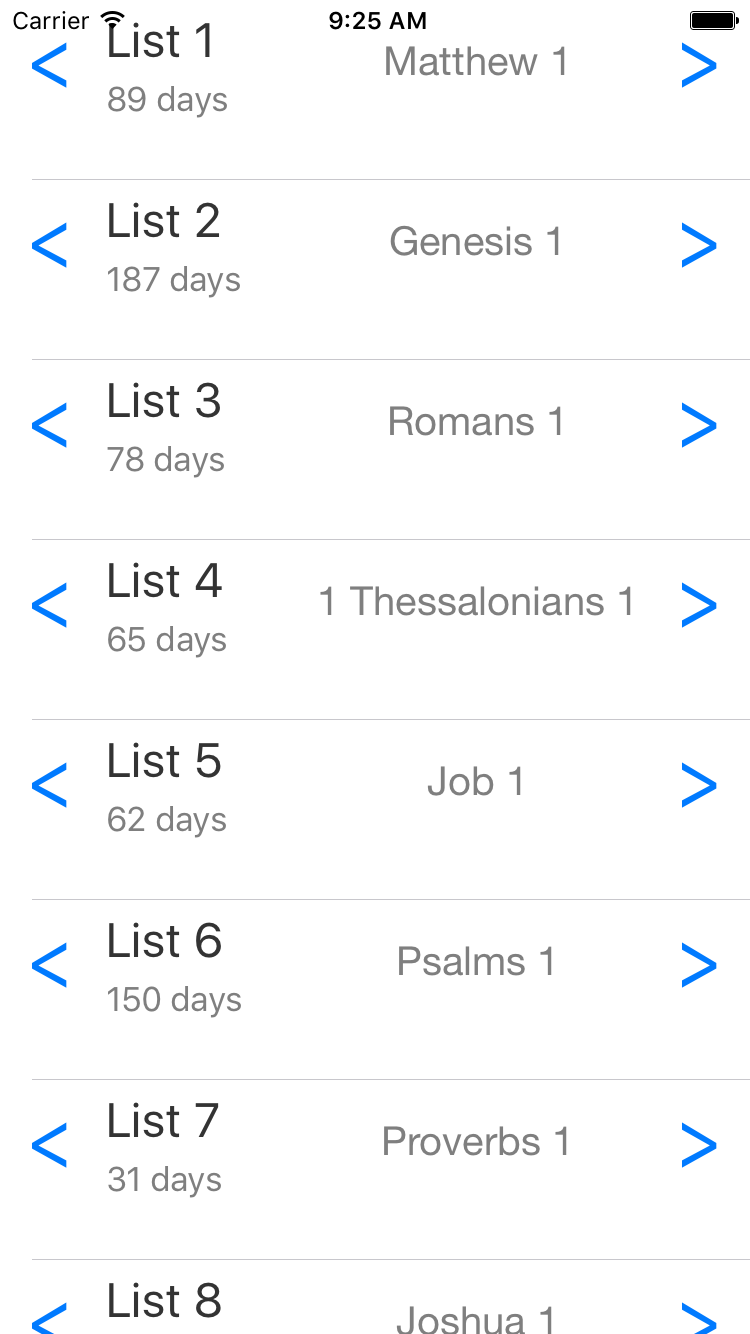
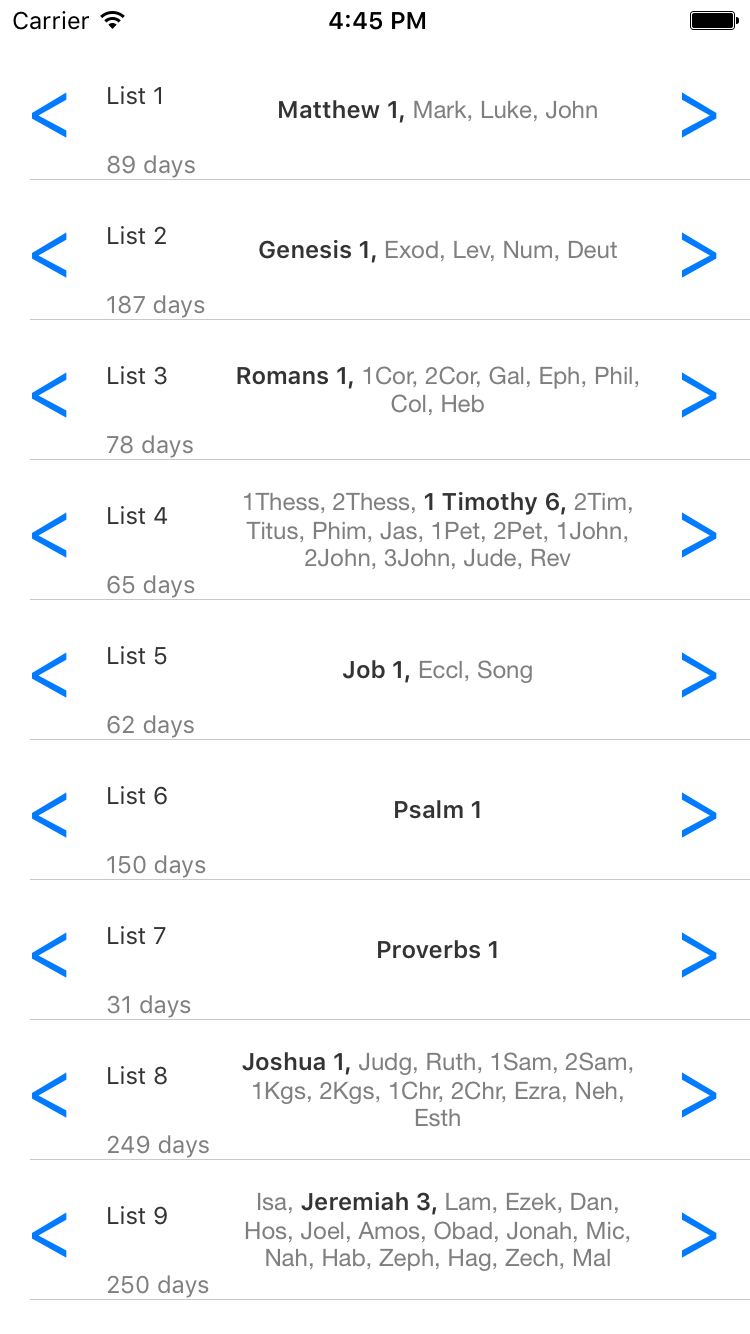
Update the UI to show all books in each list with the current book and chapter in bold.

diff --git a/src/BigRibbon/Book.swift b/src/BigRibbon/Book.swift
@@ -25,12 +25,12 @@ class Book : CustomStringConvertible {
     static let josh = Book(id:6, osisId:"Josh", name:"Joshua", chapters:24)
     static let judg = Book(id:7, osisId:"Judg", name:"Judges", chapters:21)
     static let ruth = Book(id:8, osisId:"Ruth", name:"Ruth", chapters:4)
-    static let sam1 = Book(id:9, osisId:"1Sam", name:"1 Samuel", chapters:31)
-    static let sam2 = Book(id:10, osisId:"2Sam", name:"2 Samuel", chapters:24)
-    static let kgs1 = Book(id:11, osisId:"1Kgs", name:"1 Kings", chapters:22)
-    static let kgs2 = Book(id:12, osisId:"2Kgs", name:"2 Kings", chapters:25)
-    static let chr1 = Book(id:13, osisId:"1Chr", name:"1 Chronicles", chapters:29)
-    static let chr2 = Book(id:14, osisId:"2Chr", name:"2 Chronicles", chapters:36)
+    static let sam1 = Book(id:9, osisId:"1Sam", name:"1\u{00a0}Samuel", chapters:31)
+    static let sam2 = Book(id:10, osisId:"2Sam", name:"2\u{00a0}Samuel", chapters:24)
+    static let kgs1 = Book(id:11, osisId:"1Kgs", name:"1\u{00a0}Kings", chapters:22)
+    static let kgs2 = Book(id:12, osisId:"2Kgs", name:"2\u{00a0}Kings", chapters:25)
+    static let chr1 = Book(id:13, osisId:"1Chr", name:"1\u{00a0}Chronicles", chapters:29)
+    static let chr2 = Book(id:14, osisId:"2Chr", name:"2\u{00a0}Chronicles", chapters:36)
     static let ezra = Book(id:15, osisId:"Ezra", name:"Ezra", chapters:10)
     static let neh = Book(id:16, osisId:"Neh", name:"Nehemiah", chapters:13)
     static let esth = Book(id:17, osisId:"Esth", name:"Esther", chapters:10)
@@ -38,7 +38,7 @@ class Book : CustomStringConvertible {
     static let ps = Book(id:19, osisId:"Ps", name:"Psalm", chapters:150)
     static let prov = Book(id:20, osisId:"Prov", name:"Proverbs", chapters:31)
     static let eccl = Book(id:21, osisId:"Eccl", name:"Ecclesiastes", chapters:12)
-    static let song = Book(id:22, osisId:"Song", name:"Song of Solomon", chapters:8)
+    static let song = Book(id:22, osisId:"Song", name:"Song\u{00a0}of\u{00a0}Solomon", chapters:8)
     static let isa = Book(id:23, osisId:"Isa", name:"Isaiah", chapters:66)
     static let jer = Book(id:24, osisId:"Jer", name:"Jeremiah", chapters:52)
     static let lam = Book(id:25, osisId:"Lam", name:"Lamentations", chapters:5)
@@ -62,25 +62,25 @@ class Book : CustomStringConvertible {
     static let john = Book(id:43, osisId:"John", name:"John", chapters:21)
     static let acts = Book(id:44, osisId:"Acts", name:"Acts", chapters:28)
     static let rom = Book(id:45, osisId:"Rom", name:"Romans", chapters:16)
-    static let cor1 = Book(id:46, osisId:"1Cor", name:"1 Corinthians", chapters:16)
-    static let cor2 = Book(id:47, osisId:"2Cor", name:"2 Corinthians", chapters:13)
+    static let cor1 = Book(id:46, osisId:"1Cor", name:"1\u{00a0}Corinthians", chapters:16)
+    static let cor2 = Book(id:47, osisId:"2Cor", name:"2\u{00a0}Corinthians", chapters:13)
     static let gal = Book(id:48, osisId:"Gal", name:"Galatians", chapters:6)
     static let eph = Book(id:49, osisId:"Eph", name:"Ephesians", chapters:6)
     static let phil = Book(id:50, osisId:"Phil", name:"Philippians", chapters:4)
     static let col = Book(id:51, osisId:"Col", name:"Colossians", chapters:4)
-    static let thess1 = Book(id:52, osisId:"1Thess", name:"1 Thessalonians", chapters:5)
-    static let thess2 = Book(id:53, osisId:"2Thess", name:"2 Thessalonians", chapters:3)
-    static let tim1 = Book(id:54, osisId:"1Tim", name:"1 Timothy", chapters:6)
-    static let tim2 = Book(id:55, osisId:"2Tim", name:"2 Timothy", chapters:4)
+    static let thess1 = Book(id:52, osisId:"1Thess", name:"1\u{00a0}Thessalonians", chapters:5)
+    static let thess2 = Book(id:53, osisId:"2Thess", name:"2\u{00a0}Thessalonians", chapters:3)
+    static let tim1 = Book(id:54, osisId:"1Tim", name:"1\u{00a0}Timothy", chapters:6)
+    static let tim2 = Book(id:55, osisId:"2Tim", name:"2\u{00a0}Timothy", chapters:4)
     static let titus = Book(id:56, osisId:"Titus", name:"Titus", chapters:3)
     static let phim = Book(id:57, osisId:"Phim", name:"Philemon", chapters:1)
     static let heb = Book(id:58, osisId:"Heb", name:"Hebrews", chapters:13)
     static let jas = Book(id:59, osisId:"Jas", name:"James", chapters:5)
-    static let pet1 = Book(id:60, osisId:"1Pet", name:"1 Peter", chapters:5)
-    static let pet2 = Book(id:61, osisId:"2Pet", name:"2 Peter", chapters:3)
-    static let john1 = Book(id:62, osisId:"1John", name:"1 John", chapters:5)
-    static let john2 = Book(id:63, osisId:"2John", name:"2 John", chapters:1)
-    static let john3 = Book(id:64, osisId:"3John", name:"3 John", chapters:1)
+    static let pet1 = Book(id:60, osisId:"1Pet", name:"1\u{00a0}Peter", chapters:5)
+    static let pet2 = Book(id:61, osisId:"2Pet", name:"2\u{00a0}Peter", chapters:3)
+    static let john1 = Book(id:62, osisId:"1John", name:"1\u{00a0}John", chapters:5)
+    static let john2 = Book(id:63, osisId:"2John", name:"2\u{00a0}John", chapters:1)
+    static let john3 = Book(id:64, osisId:"3John", name:"3\u{00a0}John", chapters:1)
     static let jude = Book(id:65, osisId:"Jude", name:"Jude", chapters:1)
     static let rev = Book(id:66, osisId:"Rev", name:"Revelation", chapters:22)
     

diff --git a/src/BigRibbon/BookmarkViewController.swift b/src/BigRibbon/BookmarkViewController.swift
@@ -63,9 +63,7 @@ class BookmarkViewController: UIViewController, UITableViewDataSource, UITableVi
         // Fetches the appropriate bookmark for the data source layout.
         let bookmark = bookmarks[(indexPath as NSIndexPath).row]
         
-        cell.nameLabel.text = "List " + bookmark.list.id.description
-        cell.daysLabel.text = bookmark.list.chapters.description + " days"
-        renderBookmarkPosition(cell, bookmark: bookmark)
+        renderBookmark(cell, bookmark: bookmark)
         
         cell.prevAction = { (cell) in
             let idx = (tableView.indexPath(for: cell)! as NSIndexPath).row
@@ -88,7 +86,7 @@ class BookmarkViewController: UIViewController, UITableViewDataSource, UITableVi
         
         self.saveBookmarks()
         
-        self.renderBookmarkPosition(cell, bookmark: bookmark)
+        self.renderBookmark(cell, bookmark: bookmark)
     }
     
     func decrementBookmark(_ cell: BookmarkTableViewCell, bookmark: Bookmark) {
@@ -97,12 +95,34 @@ class BookmarkViewController: UIViewController, UITableViewDataSource, UITableVi
         
         self.saveBookmarks()
         
-        self.renderBookmarkPosition(cell, bookmark: bookmark)
+        self.renderBookmark(cell, bookmark: bookmark)
     }
     
-    func renderBookmarkPosition(_ cell: BookmarkTableViewCell, bookmark: Bookmark) {
-        // TODO: Build a better string with formatting.
-        cell.booksLabel.attributedText = NSAttributedString(string: bookmark.book.name + " " + bookmark.chapter.description)
+    func renderBookmark(_ cell: BookmarkTableViewCell, bookmark: Bookmark) {
+        
+        cell.nameLabel.text = "List\u{00a0}" + bookmark.list.id.description
+        cell.daysLabel.text = bookmark.list.chapters.description + " days"
+        
+        let s = NSMutableAttributedString()
+        for i in 0 ..< bookmark.list.books.count {
+            let book = bookmark.list.books[i]
+            var txt = book.osisId
+            var attrs: [String:Any]?
+            if (book === bookmark.book) {
+                txt = book.name + "\u{00a0}" + bookmark.chapter.description
+                attrs = [
+                    NSFontAttributeName:UIFont.boldSystemFont(ofSize: cell.booksLabel.font.pointSize),
+                    NSForegroundColorAttributeName:cell.nameLabel.textColor
+                ]
+            }
+            
+            if i < bookmark.list.books.count-1 {
+                txt += ", "
+            }
+            
+            s.append(NSAttributedString(string: txt, attributes: attrs))
+        }
+        cell.booksLabel.attributedText = s
     }
     
     // MARK: NSCoding
